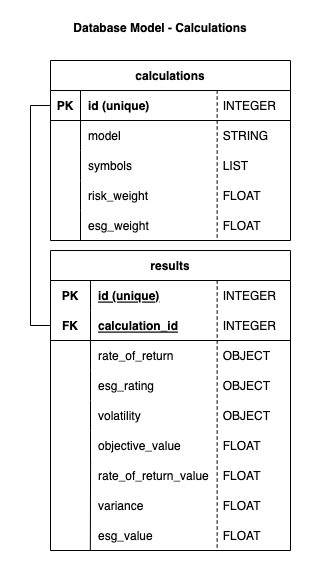
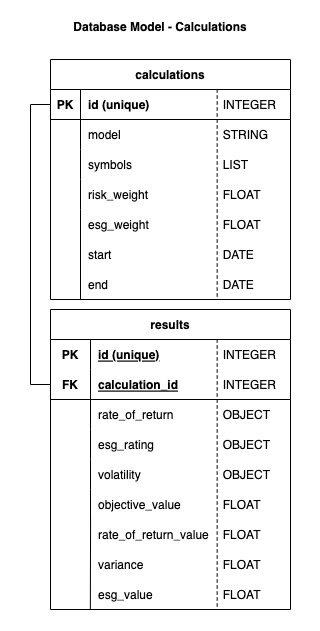
Update database model and add timestamp

Changed region(s): [[0.1562, 0.0895, 0.9062, 0.9544], [0.2188, 0.0298, 0.7812, 0.0596], [0.0938, 0.5667, 0.1562, 0.6263]]

diff --git a/api/qupo_backend/tickers_utilities.py b/api/qupo_backend/tickers_utilities.py
@@ -1,5 +1,6 @@
 import json
 import pandas as pd
+from datetime import datetime
 from types import SimpleNamespace
 
 import yfinance
@@ -54,31 +55,32 @@ def get_all_symbols(stock_data, symbols_only: bool):
     return replace_to_yahoo_symbols([json.loads(stock) for stock in set(symbols_list)])
 
 
-def get_data_of_symbol(stock: schemas.StockBase, db: Session):
+def get_data_of_symbol(stock: schemas.StockBase, start: str, end: str, db: Session):
     if (settings.use_db):
         db_stock = crud.get_stock(db, stock)
 
         if db_stock is None:
-            return save_finance_data(db, stock)
+            return save_finance_data(db, stock, start, end)
 
         date_last_entry = db_stock.history[len(db_stock.history) - 1].date
-        if (date_last_entry < stock.end):
-            return update_history(db, stock, date_last_entry)
+        if (date_last_entry < datetime.strptime(end, '%Y-%m-%d').date()):
+            return update_history(db, stock, date_last_entry, start, end)
 
-        return get_data_in_timeframe(db, stock)
+        return get_data_in_timeframe(db, stock, start, end)
 
     else:
         data = yfinance.Ticker(stock.symbol)
-        yhistory = json.loads(data.history(start=str(stock.start), end=str(stock.end), auto_adjust=False).to_json(orient='split'))
+        yhistory = json.loads(data.history(start=str(start), end=str(end), auto_adjust=False).to_json(orient='split'))
 
         if (len(yhistory['data']) > 0):
             history = deconstruct_yhistory(yhistory)
 
-            info = schemas.InfoCreate(symbol=stock.symbol, name=data.info['shortName'], type=data.info['quoteType'],
-                                      country=data.info['country'], currency=data.info['currency'], sustainability=get_sustainability(data))
+            info = schemas.InfoCreate(symbol=stock.symbol, name=data.info['shortName'],
+                                      type=data.info['quoteType'], country=data.info['country'],
+                                      currency=data.info['currency'], sustainability=get_sustainability(data))
 
-            return SimpleNamespace(**{'symbol': stock.symbol, 'start': stock.start,
-                                      'end': stock.end, 'info': [info], 'history': history})
+            return SimpleNamespace(**{'symbol': stock.symbol, 'timestamp': datetime.now(),
+                                      'info': [info], 'history': history})
 
     # TODO: Replace by generic exception and move HTTPException to API
     raise HTTPException(status_code=500, detail=f'Unable to return stock data of symbol: {stock.symbol}.')

diff --git a/api/qupo_backend/db/stocks/operations.py b/api/qupo_backend/db/stocks/operations.py
@@ -7,10 +7,11 @@ from sqlalchemy.orm import Session
 from . import crud, schemas
 
 
-def get_data_in_timeframe(db: Session, stock: schemas.StockBase):
+def get_data_in_timeframe(db: Session, stock: schemas.StockBase, start, end):
     info = crud.get_info(db, stock)
-    history = crud.get_history(db, stock)
-    return schemas.Stock(id=0, symbol=stock.symbol, start=stock.start, end=stock.end,
+    history = crud.get_history(db, stock, start, end)
+    created_stock = crud.get_stock(db, stock)
+    return schemas.Stock(id=created_stock.id, symbol=stock.symbol, timestamp=created_stock.timestamp,
                          info=[info], history=history)
 
 
@@ -43,7 +44,7 @@ def deconstruct_yhistory(yhistory):
     return history
 
 
-def save_finance_data(db: Session, stock: schemas.StockBase):
+def save_finance_data(db: Session, stock: schemas.StockBase, start, end):
     data, yhistory = get_data_from_yahoo(stock.symbol, 'max')
 
     if (len(yhistory['data']) > 0):
@@ -57,12 +58,12 @@ def save_finance_data(db: Session, stock: schemas.StockBase):
         crud.create_stock_history(db, history, stock.symbol)
         db.commit()
 
-        return get_data_in_timeframe(db, stock)
+        return get_data_in_timeframe(db, stock, start, end)
 
     return None
 
 
-def update_history(db: Session, stock: schemas.BaseModel, last_date):
+def update_history(db: Session, stock: schemas.StockBase, last_date, start, end):
     _, yhistory = get_data_from_yahoo(stock.symbol, 'max')
 
     if (len(yhistory['data']) > 0):
@@ -75,6 +76,6 @@ def update_history(db: Session, stock: schemas.BaseModel, last_date):
 
         crud.create_stock_history(db, history, stock.symbol)
         db.commit()
-        return get_data_in_timeframe(db, stock)
+        return get_data_in_timeframe(db, stock, start, end)
 
     return None

diff --git a/api/qupo_backend/db/stocks/crud.py b/api/qupo_backend/db/stocks/crud.py
@@ -16,16 +16,15 @@ def get_info(db: Session, stock: schemas.StockBase):
         first()
 
 
-def get_history(db: Session, stock: schemas.StockBase):
+def get_history(db: Session, stock: schemas.StockBase, start, end):
     return db.query(models.History). \
         where(models.History.symbol == stock.symbol). \
-        filter(models.History.date.between(stock.start, stock.end)). \
+        filter(models.History.date.between(start, end)). \
         all()
 
 
 def create_stock(db: Session, stock: schemas.StockCreate):
-    db_stock = models.Stock(symbol=stock.symbol, start=stock.start,
-                            end=stock.end)
+    db_stock = models.Stock(symbol=stock.symbol)
     db.add(db_stock)
     return db_stock
 

diff --git a/api/qupo_backend/db/stocks/models.py b/api/qupo_backend/db/stocks/models.py
@@ -1,5 +1,6 @@
-from sqlalchemy import Column, Date, Float, ForeignKey, Integer, String
+from sqlalchemy import Column, Date, DateTime, Float, ForeignKey, Integer, String
 from sqlalchemy.orm import relationship
+from sqlalchemy.sql import func
 
 from ..database import Base
 
@@ -9,8 +10,7 @@ class Stock(Base):
 
     id = Column(Integer, primary_key=True, index=True)
     symbol = Column(String, unique=True)
-    start = Column(Date)
-    end = Column(Date)
+    timestamp = Column(DateTime(timezone=True), default=func.current_timestamp())
 
     info = relationship('Info', back_populates='stock')
     history = relationship('History', back_populates='stock')

diff --git a/api/qupo_backend/models/portfolio_model.py b/api/qupo_backend/models/portfolio_model.py
@@ -16,7 +16,7 @@ def portfolio_df_from_stock_data(db, symbols, start, end):
     stocks = []
 
     for symbol in symbols:
-        stock_data = get_data_of_symbol(stock_schemas.StockBase(symbol=symbol, start=start, end=end), db)
+        stock_data = get_data_of_symbol(stock_schemas.StockBase(symbol=symbol), start, end, db)
         if (stock_data):
             close_values = [h.close for h in stock_data.history]
             stock = Stock(pd.Series(data=close_values), ticker=symbol, full_name=stock_data.info[0].name,

diff --git a/api/qupo_backend/db/stocks/schemas.py b/api/qupo_backend/db/stocks/schemas.py
@@ -1,4 +1,4 @@
-from datetime import date
+from datetime import date, datetime
 from typing import List
 from pydantic import BaseModel
 
@@ -48,8 +48,6 @@ class Info(InfoBase):
 
 class StockBase(BaseModel):
     symbol: str
-    start: date
-    end: date
 
 
 class StockCreate(StockBase):
@@ -58,6 +56,7 @@ class StockCreate(StockBase):
 
 class Stock(StockBase):
     id: int
+    timestamp: datetime
     info: List[Info] = []
     history: List[History] = []
 
